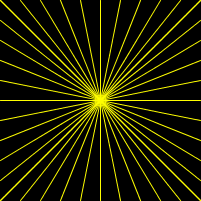
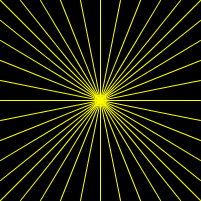
x

diff --git a/Bitmap_Assert/L3.py b/Bitmap_Assert/L3.py
@@ -22,13 +22,13 @@ def lektion3(ass):
         if ass.errors(): return
         bg(0)
         sc(1,0,0)
-        for i in range(0,210,10):
-            line(i,0,200,i)
+        for i in range(21):
+            line(i*10,0,200,i*10)
             
     with ass.check("sunshine"):
         if ass.errors(): return
         bg(0)
         sc(1,1,0)
-        for i in range(0,220,20):
-            line(i,0,200-i,200)
-            line(0,i,200,200-i)
+        for i in range(10):
+            line(i*20,0,200-i*20,200)
+            line(0,20+i*20,200,180-i*20)
